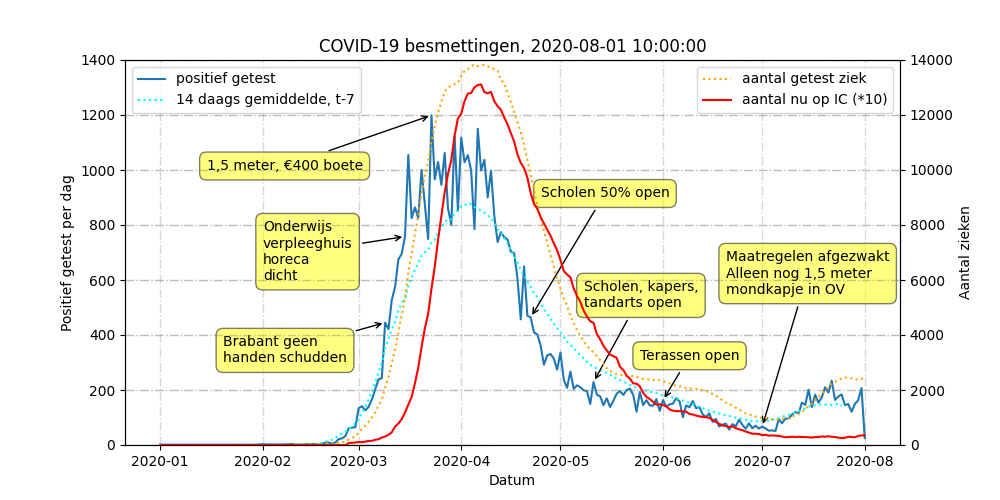
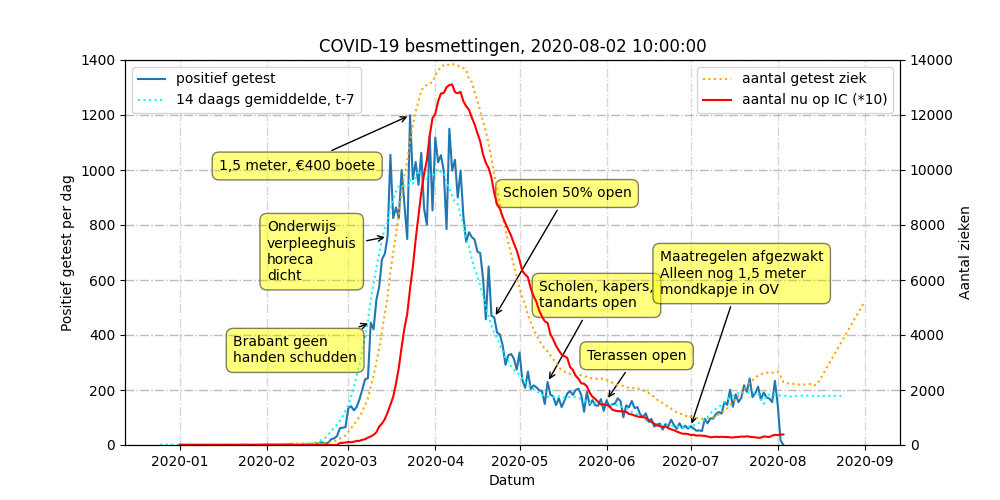
Ran getDailyExcelData

Changed region(s): [[0.124, 0.12, 0.899, 0.93]]

diff --git a/scripts/createGraph.py b/scripts/createGraph.py
@@ -76,6 +76,11 @@ ic = {
     'scale' : 10
 }
 
+besmettingsgraad = {
+    'x' : [],
+    'y' : []    
+}
+
 # print("2020-01-30")
 # print((parser.parse("2020-01-30") - datetime.timedelta(days=ziekteduur)).strftime("%Y-%m-%d"))
 # exit
@@ -85,32 +90,47 @@ date_range = getDateRange(metenisweten)
 for d in date_range:
     datum = d.strftime("%Y-%m-%d")
 
-    if datum not in metenisweten:
-        continue
+    if datum in metenisweten:
+        positief['x'].append(parser.parse(datum))
+        positief['y'].append(metenisweten[datum]['positief'])
 
-    positief['x'].append(parser.parse(datum))
-    positief['y'].append(metenisweten[datum]['positief'])
+        ic['x'].append(parser.parse(datum))
+        ic['y'].append(metenisweten[datum]['nu_op_ic'] * ic['scale'])  # <-------------- Let op! Scaled!
 
-    ic['x'].append(parser.parse(datum))
-    ic['y'].append(metenisweten[datum]['nu_op_ic'] * ic['scale'])  # <-------------- Let op! Scaled!
-
-    avg = mean(positief['y'][len(positief['y'])-11:])
-    positief_gemiddeld['x'].append(parser.parse(
-        datum) - datetime.timedelta(days=positief_gemiddeld['avgsize']/2))
+    if datum in metenisweten:
+        avg = mean(positief['y'][len(positief['y'])-11:])
+    else:
+        avg = mean(positief_gemiddeld['y'][len(positief_gemiddeld['y'])-11:])
+    positief_gemiddeld['x'].append(parser.parse(datum) - datetime.timedelta(days=positief_gemiddeld['avgsize']/2))
     positief_gemiddeld['y'].append(avg)
 
     beterdag = (parser.parse(datum) - datetime.timedelta(days=ziek['ziekteduur'])).strftime("%Y-%m-%d")
-
-    try:
-        nuziek = nuziek + metenisweten[datum]['positief']
-    except NameError:
-        nuziek = metenisweten[datum]['positief']
+    
+    if datum in metenisweten:
+        ziekgeworden = metenisweten[datum]['positief']
+    else :
+        ziekgeworden = avg
 
     if beterdag in metenisweten:
-        nuziek = nuziek - metenisweten[beterdag]['positief']
+        betergeworden = metenisweten[beterdag]['positief']
+    else:
+        try:
+            betergeworden = positief_gemiddeld['y'][len(positief_gemiddeld['y']) - ziek['ziekteduur']]
+        except IndexError:
+            betergeworden = avg
+    
+    try:
+        nuziek = nuziek + ziekgeworden
+    except NameError:
+        nuziek = ziekgeworden
+
+    if beterdag in metenisweten:
+        nuziek = nuziek - betergeworden
 
     ziek['x'].append(parser.parse(datum))
     ziek['y'].append(nuziek)
+
+    
 
 
 def anotate(plt, metenisweten, datum, tekst, x, y):
@@ -173,4 +193,4 @@ plt.title('COVID-19 besmettingen, '+filedate)
 ax1.legend(loc="upper left")
 ax2.legend(loc="upper right")
 plt.savefig("../graphs/besmettingen.png")
-# plt.show()
+plt.show()
